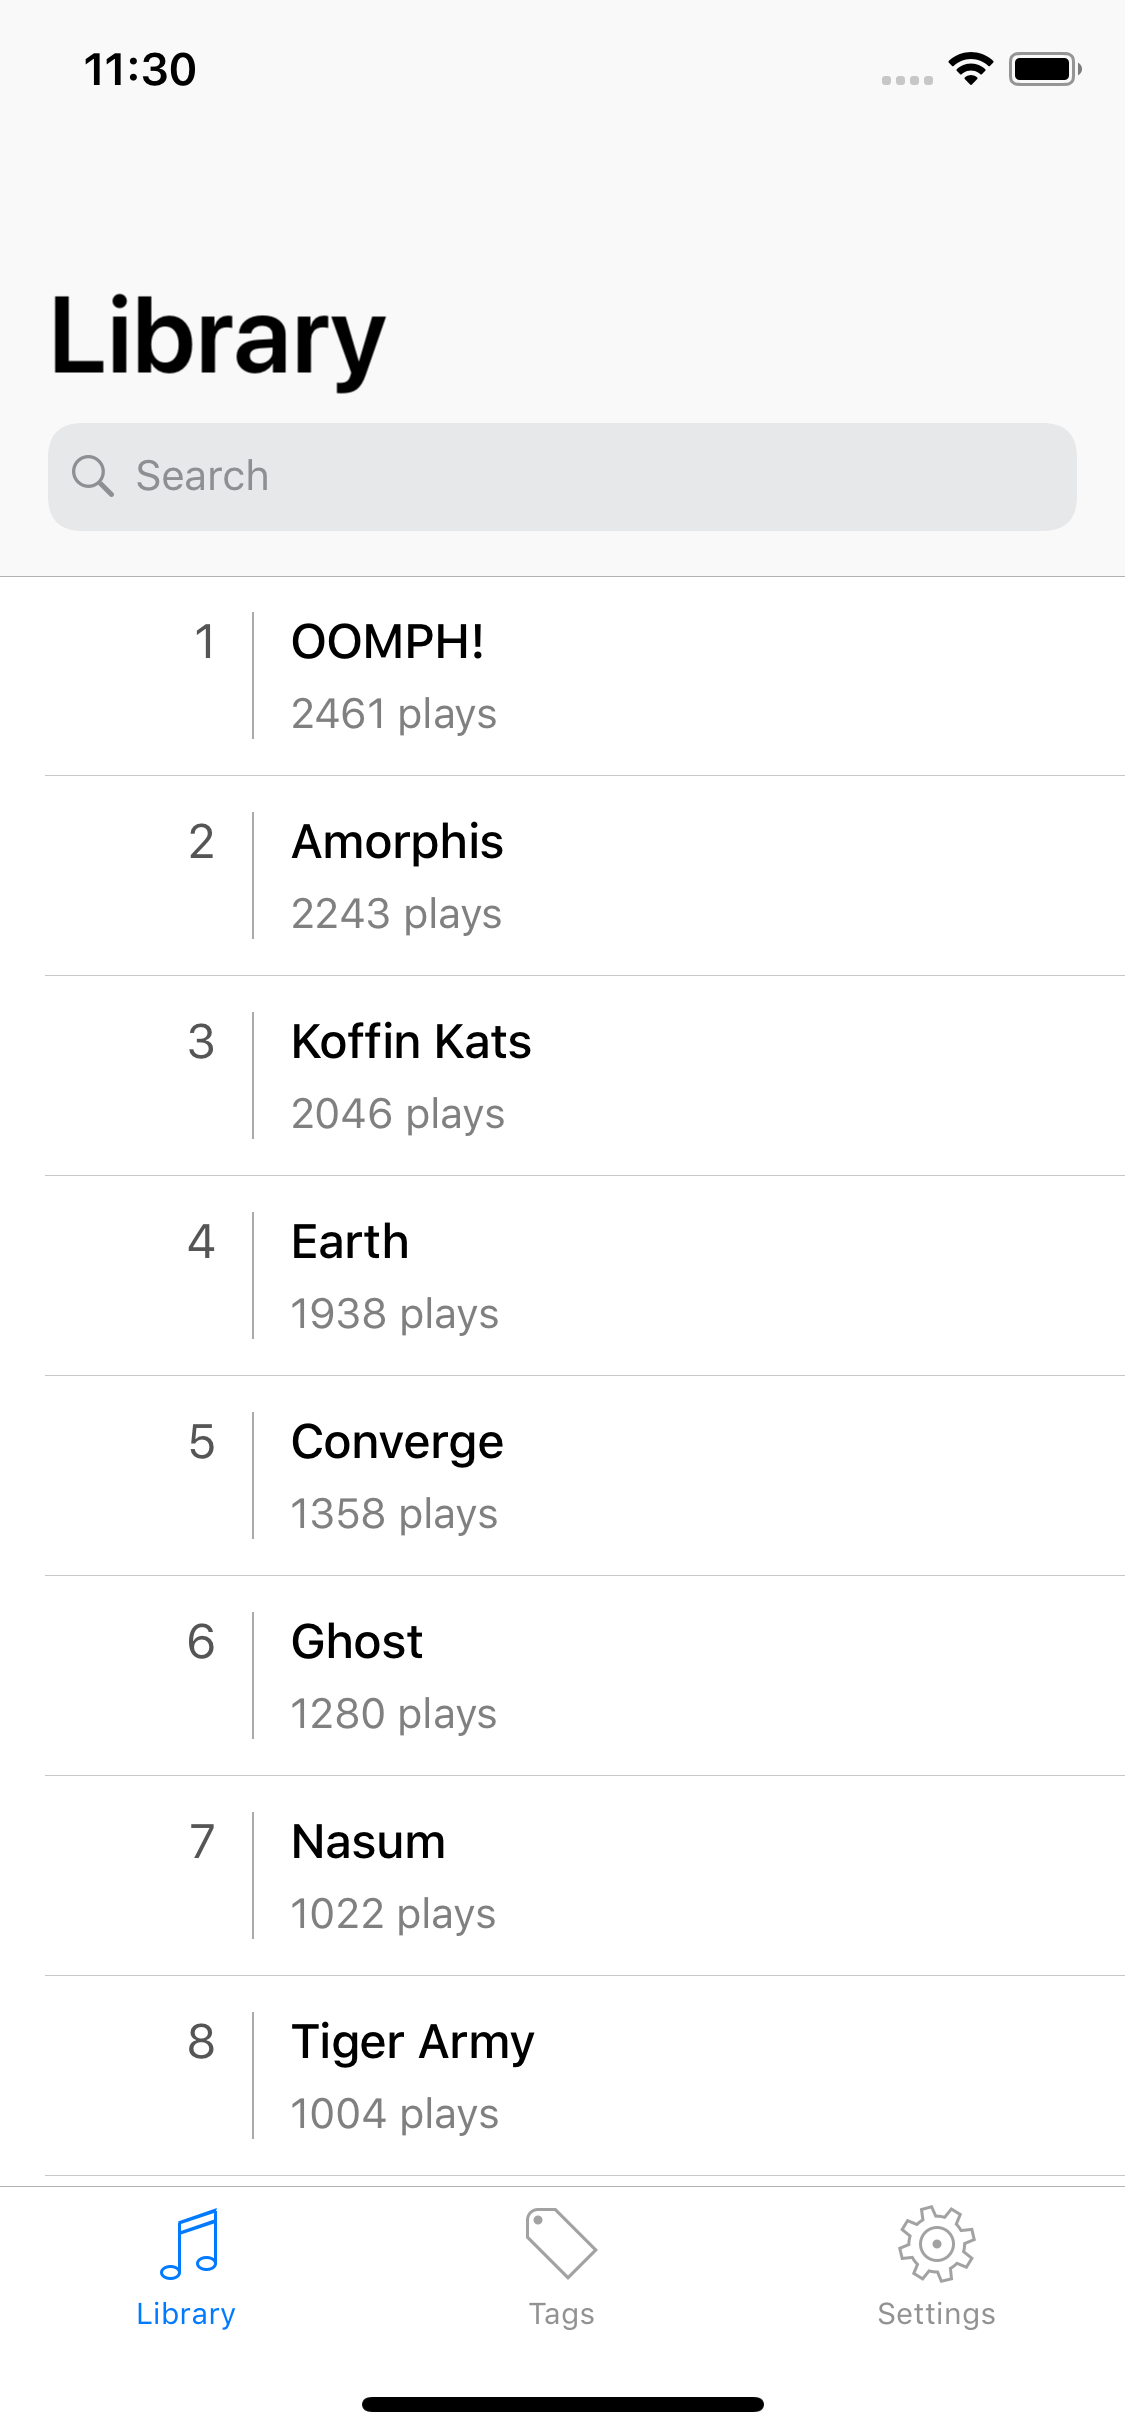
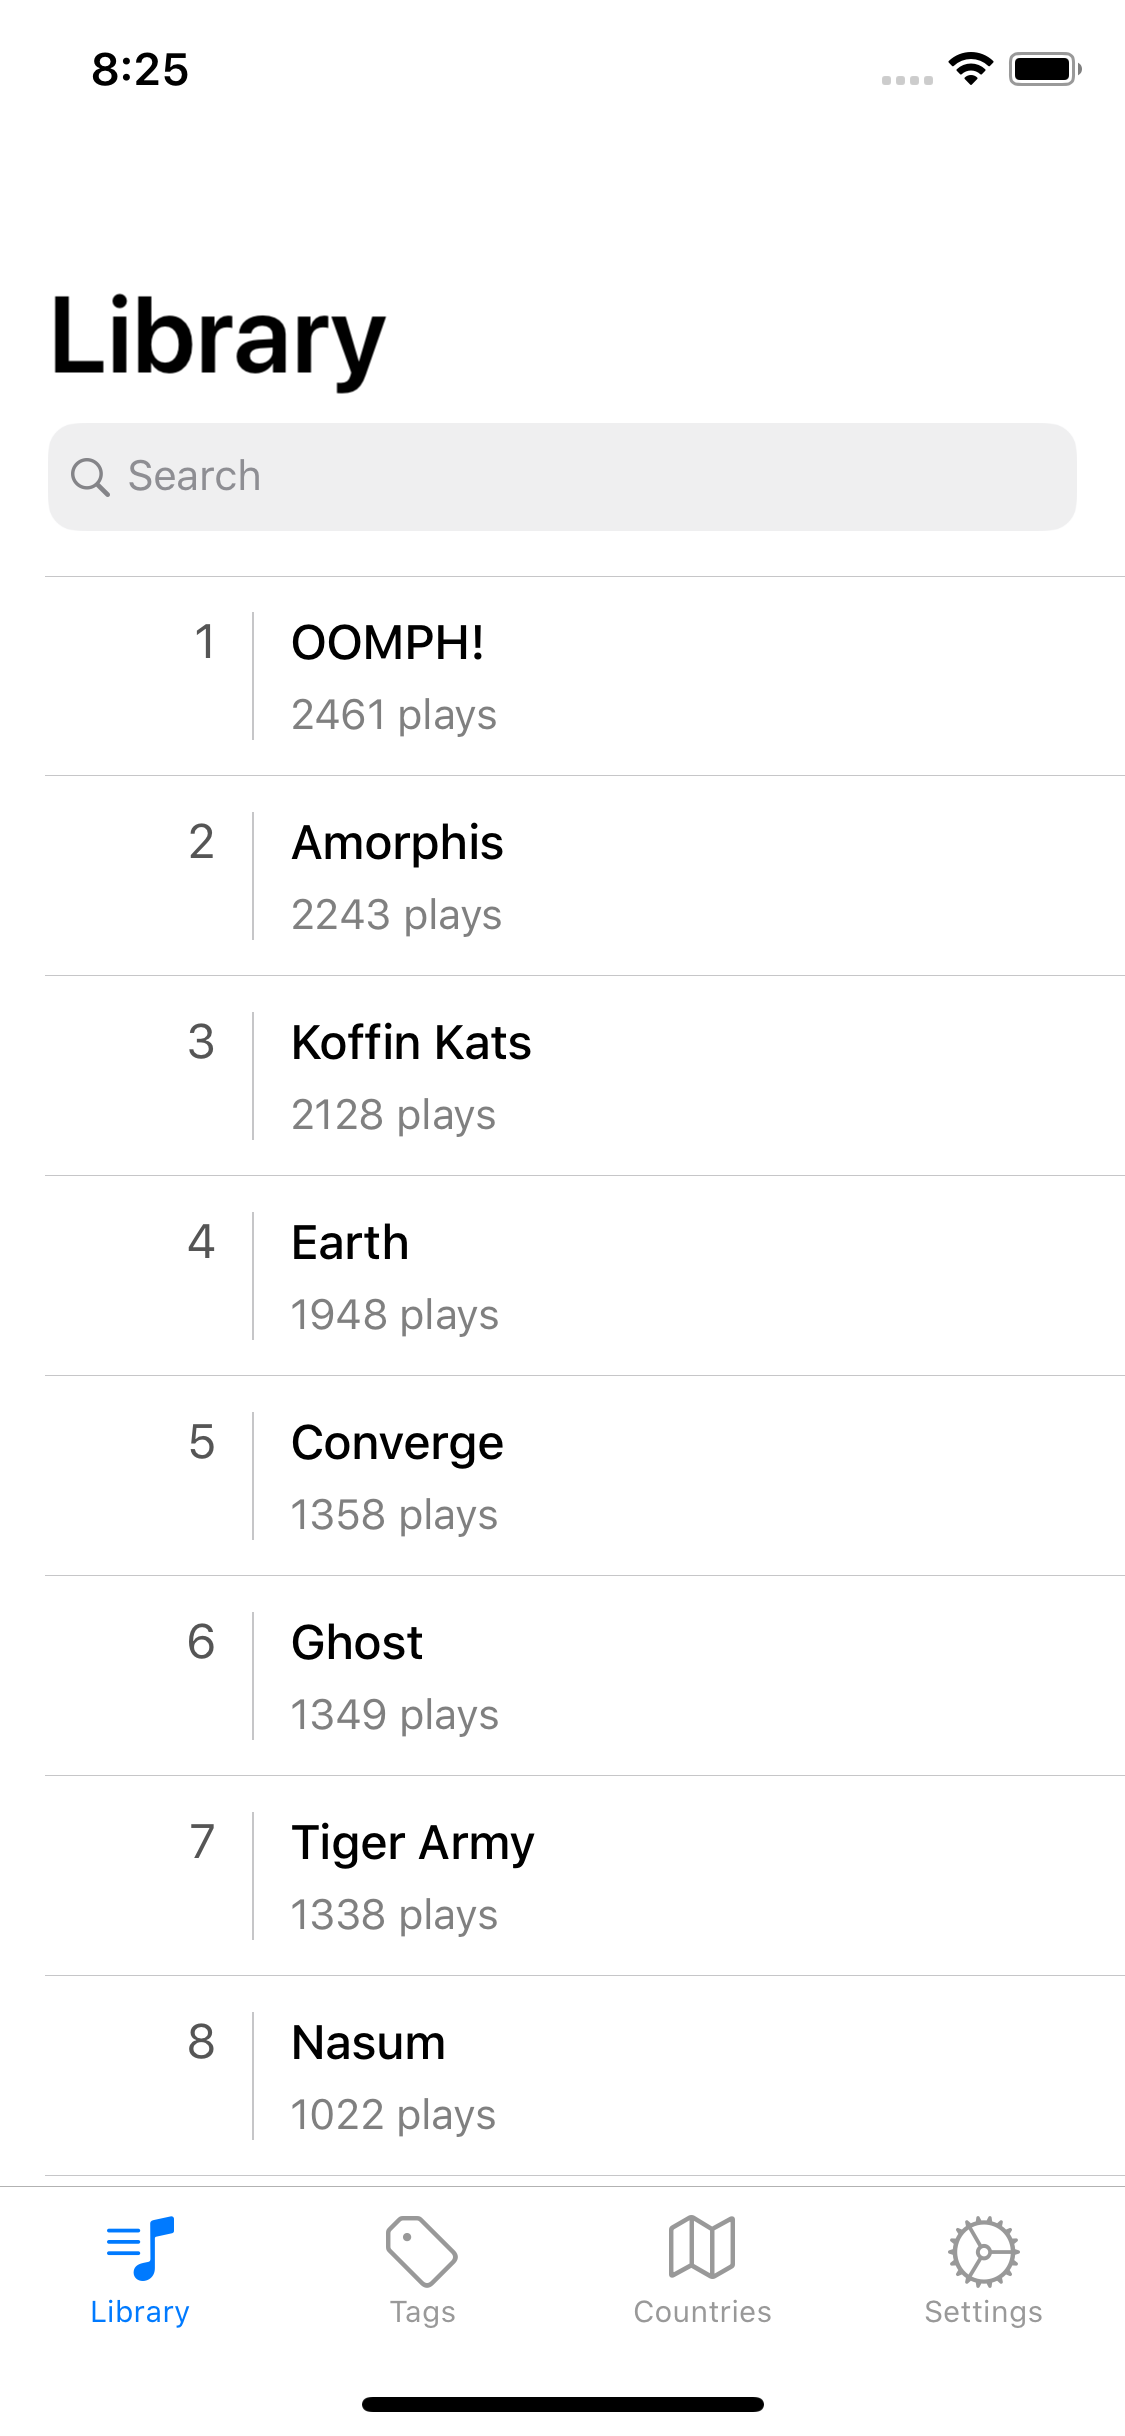
Update screenshots and readme

diff --git a/README.md b/README.md
@@ -7,10 +7,11 @@ Have you ever tried to find a music band which is similar to the one you're curr
 * Browse and search your Last.fm library
 * Find similar artists based on tag intersection
 * Search artists by tag
+* Browse artists by country
 * Setup tags which will be ignored during similarity check (e.g. too broad ones or irrelevant to the actual music content) 
 
 ## Screenshots
-<img src="Screenshots/screen_1.png" width="280"> <img src="Screenshots/screen_2.png" width="280"> <img src="Screenshots/screen_3.png" width="280">
+<img src="Screenshots/screen_1.png" width="190"> <img src="Screenshots/screen_2.png" width="190"> <img src="Screenshots/screen_3.png" width="190"> <img src="Screenshots/screen_4.png" width="190">
 
 (Originally there were also photos of the artists but then Last.fm started to return placeholders instead of actual photos. Turns out they don't allow to use those photos anymore.)
 
